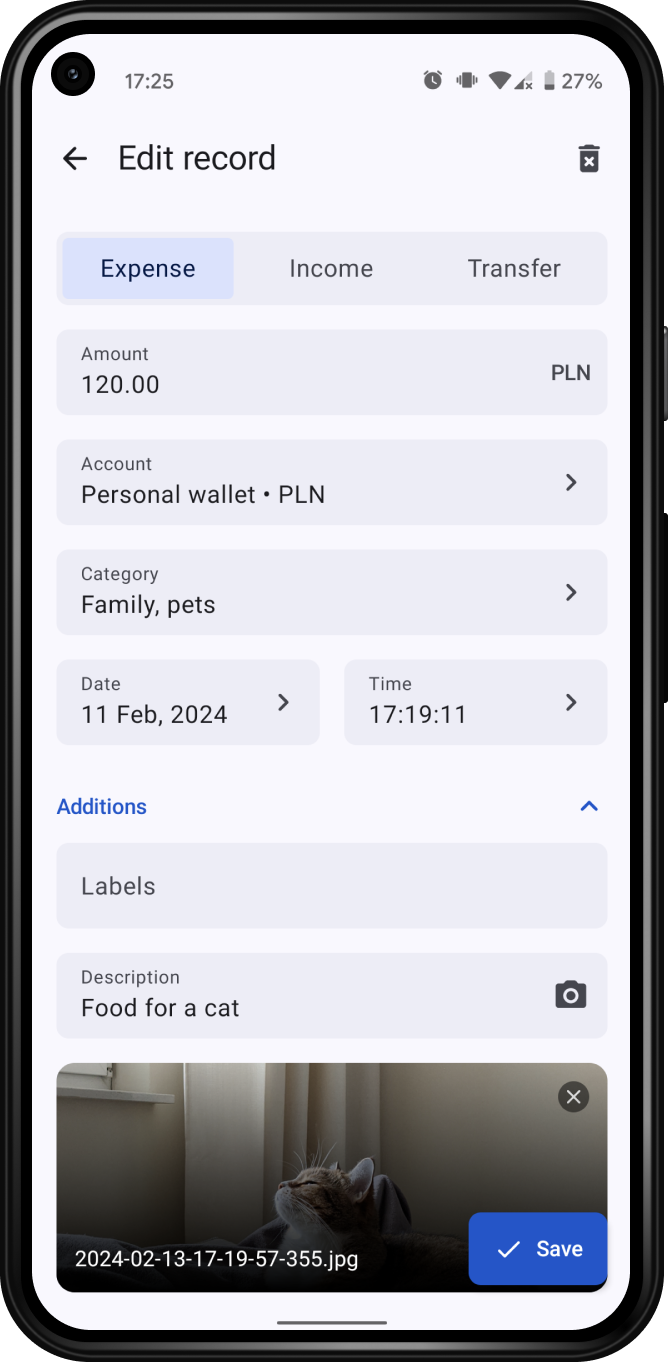
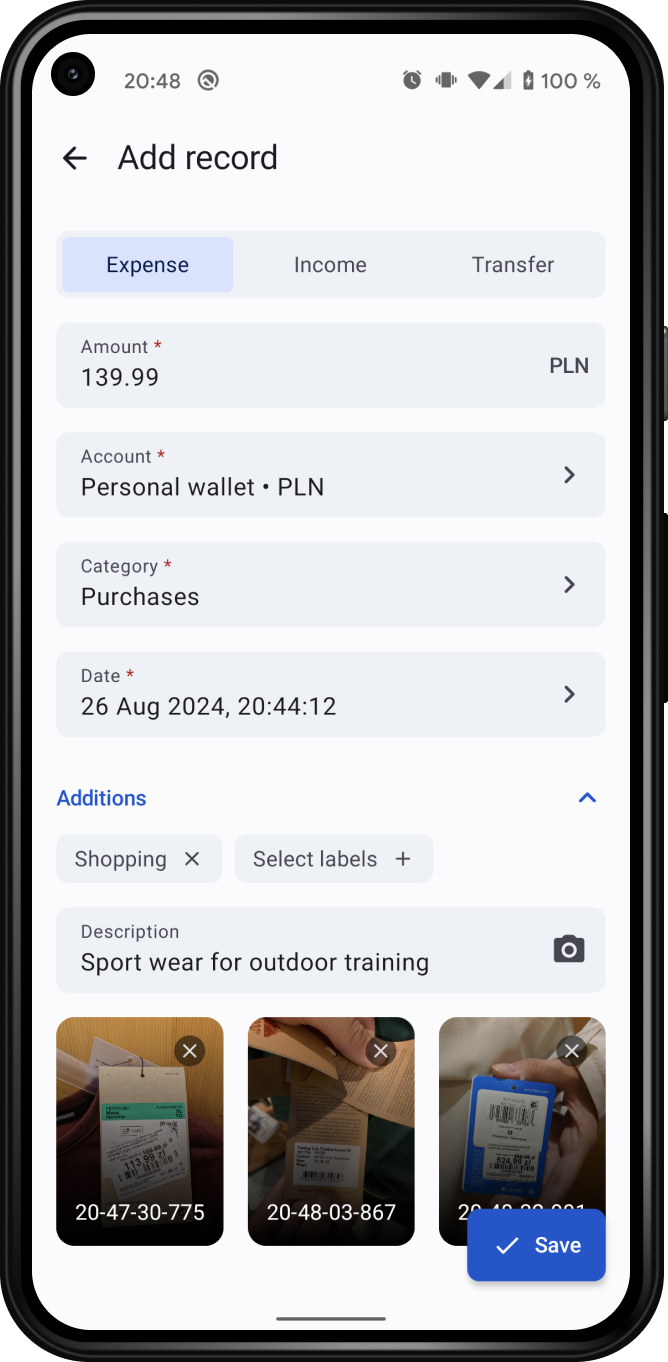
feat: Update inputs style (#40)
* Update inputs styling

* Remove one item from widgets

* Update previews in README

diff --git a/core/ui/src/main/java/org/expenny/core/ui/components/ExpennyInput.kt b/core/ui/src/main/java/org/expenny/core/ui/components/ExpennyInput.kt
@@ -1,11 +1,9 @@
 package org.expenny.core.ui.components
 
-import androidx.compose.animation.animateColorAsState
 import androidx.compose.animation.core.animateDpAsState
 import androidx.compose.animation.core.tween
 import androidx.compose.foundation.BorderStroke
 import androidx.compose.foundation.border
-import androidx.compose.foundation.interaction.InteractionSource
 import androidx.compose.foundation.interaction.MutableInteractionSource
 import androidx.compose.foundation.interaction.collectIsFocusedAsState
 import androidx.compose.foundation.layout.Column
@@ -86,7 +84,7 @@ fun ExpennyInputField(
     val disabledPlaceholderColor by rememberDisabledPlaceholderColor(isEnabled)
     val disabledLabelColor by rememberDisabledLabelColor(isEnabled)
     val disabledTextColor by rememberDisabledTextColor(isEnabled)
-    val errorContainerColor by rememberErrorContainerColorAsState(isFocused)
+    val disabledContainerColor by rememberDisabledContainerColorAsState(!isEnabled)
     val border by animateBorderAsState(isEnabled, isError, isFocused)
     val maxLines by rememberUpdatedState(if (isSingleLine) 1 else 5)
 
@@ -150,7 +148,7 @@ fun ExpennyInputField(
                 ),
                 colors = TextFieldDefaults.colors(
                     focusedContainerColor = MaterialTheme.colorScheme.surface,
-                    unfocusedContainerColor = MaterialTheme.colorScheme.surfaceContainer,
+                    unfocusedContainerColor = MaterialTheme.colorScheme.transparent,
                     focusedTextColor = MaterialTheme.colorScheme.onSurface,
                     unfocusedTextColor = MaterialTheme.colorScheme.onSurface,
                     errorTextColor = MaterialTheme.colorScheme.onSurface,
@@ -158,7 +156,7 @@ fun ExpennyInputField(
                     unfocusedPlaceholderColor = MaterialTheme.colorScheme.onSurfaceVariant,
                     errorPlaceholderColor = MaterialTheme.colorScheme.onSurfaceVariant,
                     cursorColor = MaterialTheme.colorScheme.primary,
-                    errorContainerColor = errorContainerColor,
+                    errorContainerColor = MaterialTheme.colorScheme.transparent,
                     errorLabelColor = MaterialTheme.colorScheme.error,
                     errorCursorColor = MaterialTheme.colorScheme.error,
                     errorSupportingTextColor = MaterialTheme.colorScheme.onSurfaceVariant,
@@ -174,7 +172,7 @@ fun ExpennyInputField(
                     unfocusedLeadingIconColor = MaterialTheme.colorScheme.onSurfaceVariant,
                     unfocusedIndicatorColor = MaterialTheme.colorScheme.transparent,
                     disabledIndicatorColor = MaterialTheme.colorScheme.transparent,
-                    disabledContainerColor = MaterialTheme.colorScheme.surfaceContainer,
+                    disabledContainerColor = disabledContainerColor,
                     disabledSupportingTextColor = MaterialTheme.colorScheme.onSurfaceVariant,
                     disabledLeadingIconColor = MaterialTheme.colorScheme.onSurfaceVariant,
                     disabledTrailingIconColor = MaterialTheme.colorScheme.onSurfaceVariant,
@@ -390,12 +388,12 @@ private fun InputLabel(
 }
 
 @Composable
-private fun rememberErrorContainerColorAsState(
-    isFocused: Boolean,
+private fun rememberDisabledContainerColorAsState(
+    isDisabled: Boolean,
 ): State<Color> {
     return rememberUpdatedState(
-        if (isFocused) MaterialTheme.colorScheme.surface
-        else MaterialTheme.colorScheme.surfaceContainer
+        if (isDisabled) MaterialTheme.colorScheme.surfaceContainer
+        else MaterialTheme.colorScheme.transparent
     )
 }
 
@@ -406,12 +404,12 @@ private fun animateBorderAsState(
     isFocused: Boolean
 ): State<BorderStroke> {
     val focusedBorderWidth = 2.dp
-    val unfocusedBorderWidth = if (isError) 1.dp else 0.dp
+    val unfocusedBorderWidth = 1.dp
     val borderColor = rememberUpdatedState(
         when {
             isError -> MaterialTheme.colorScheme.error
             isFocused -> MaterialTheme.colorScheme.primary
-            else -> MaterialTheme.colorScheme.transparent
+            else -> MaterialTheme.colorScheme.outlineVariant
         }
     )
     val targetWidth = if (isFocused) focusedBorderWidth else unfocusedBorderWidth
@@ -478,16 +476,23 @@ private fun ExpennyInputPreview() {
             description = "Preview description",
             onValueChange = {}
         )
+        ExpennyMonetaryInputField(
+            label = "Preview label",
+            value = BigDecimal.ZERO.setScale(2),
+            currency = "PLN",
+            onValueChange = {}
+        )
         ExpennySelectInputField(
             label = "Preview label",
             value = "Preview value",
             onClick = {},
             onValueChange = {}
         )
-        ExpennyMonetaryInputField(
+        ExpennySelectInputField(
             label = "Preview label",
-            value = BigDecimal.ZERO.setScale(2),
-            currency = "PLN",
+            value = "Preview value",
+            isEnabled = false,
+            onClick = {},
             onValueChange = {}
         )
         ExpennyInputField(

diff --git a/core/ui/src/main/java/org/expenny/core/ui/extensions/TypeExtensions.kt b/core/ui/src/main/java/org/expenny/core/ui/extensions/TypeExtensions.kt
@@ -74,7 +74,6 @@ val DashboardWidgetType.label: String
             DashboardWidgetType.Accounts -> R.string.accounts_label
             DashboardWidgetType.Budgets -> R.string.budgets_label
             DashboardWidgetType.Analytics -> R.string.analytics_label
-            DashboardWidgetType.Debts -> R.string.debts_label
         }
     )
 
@@ -85,7 +84,6 @@ val DashboardWidgetType.icon: Painter
             DashboardWidgetType.Accounts -> R.drawable.ic_wallet
             DashboardWidgetType.Budgets -> R.drawable.ic_calculator
             DashboardWidgetType.Analytics -> R.drawable.ic_analytics
-            DashboardWidgetType.Debts -> R.drawable.ic_debts
         }
     )
 

diff --git a/core/ui/src/main/java/org/expenny/core/ui/foundation/Theme.kt b/core/ui/src/main/java/org/expenny/core/ui/foundation/Theme.kt
@@ -1,5 +1,6 @@
 package org.expenny.core.ui.foundation
 
+import androidx.compose.foundation.background
 import androidx.compose.foundation.isSystemInDarkTheme
 import androidx.compose.foundation.layout.Arrangement
 import androidx.compose.foundation.layout.Column
@@ -29,7 +30,9 @@ fun ExpennyThemePreview(
 ) {
     ExpennyTheme {
         Column(
-            modifier = Modifier.padding(8.dp),
+            modifier = Modifier
+                .background(MaterialTheme.colorScheme.surface)
+                .padding(8.dp),
             verticalArrangement = Arrangement.spacedBy(16.dp),
             content = content
         )

diff --git a/core/common/src/main/java/org/expenny/core/common/types/DashboardWidgetType.kt b/core/common/src/main/java/org/expenny/core/common/types/DashboardWidgetType.kt
@@ -4,6 +4,5 @@ enum class DashboardWidgetType {
     Records,
     Accounts,
     Budgets,
-    Analytics,
-    Debts
+    Analytics
 }

diff --git a/README.md b/README.md
@@ -19,4 +19,5 @@ Android app for tracking and analysing cash-flow<br/>
   <img src="./docs/frame_2.png" height="480">
   <img src="./docs/frame_3.png" height="480">
   <img src="./docs/frame_4.png" height="480">
+  <img src="./docs/frame_5.png" height="480">
 </p>
